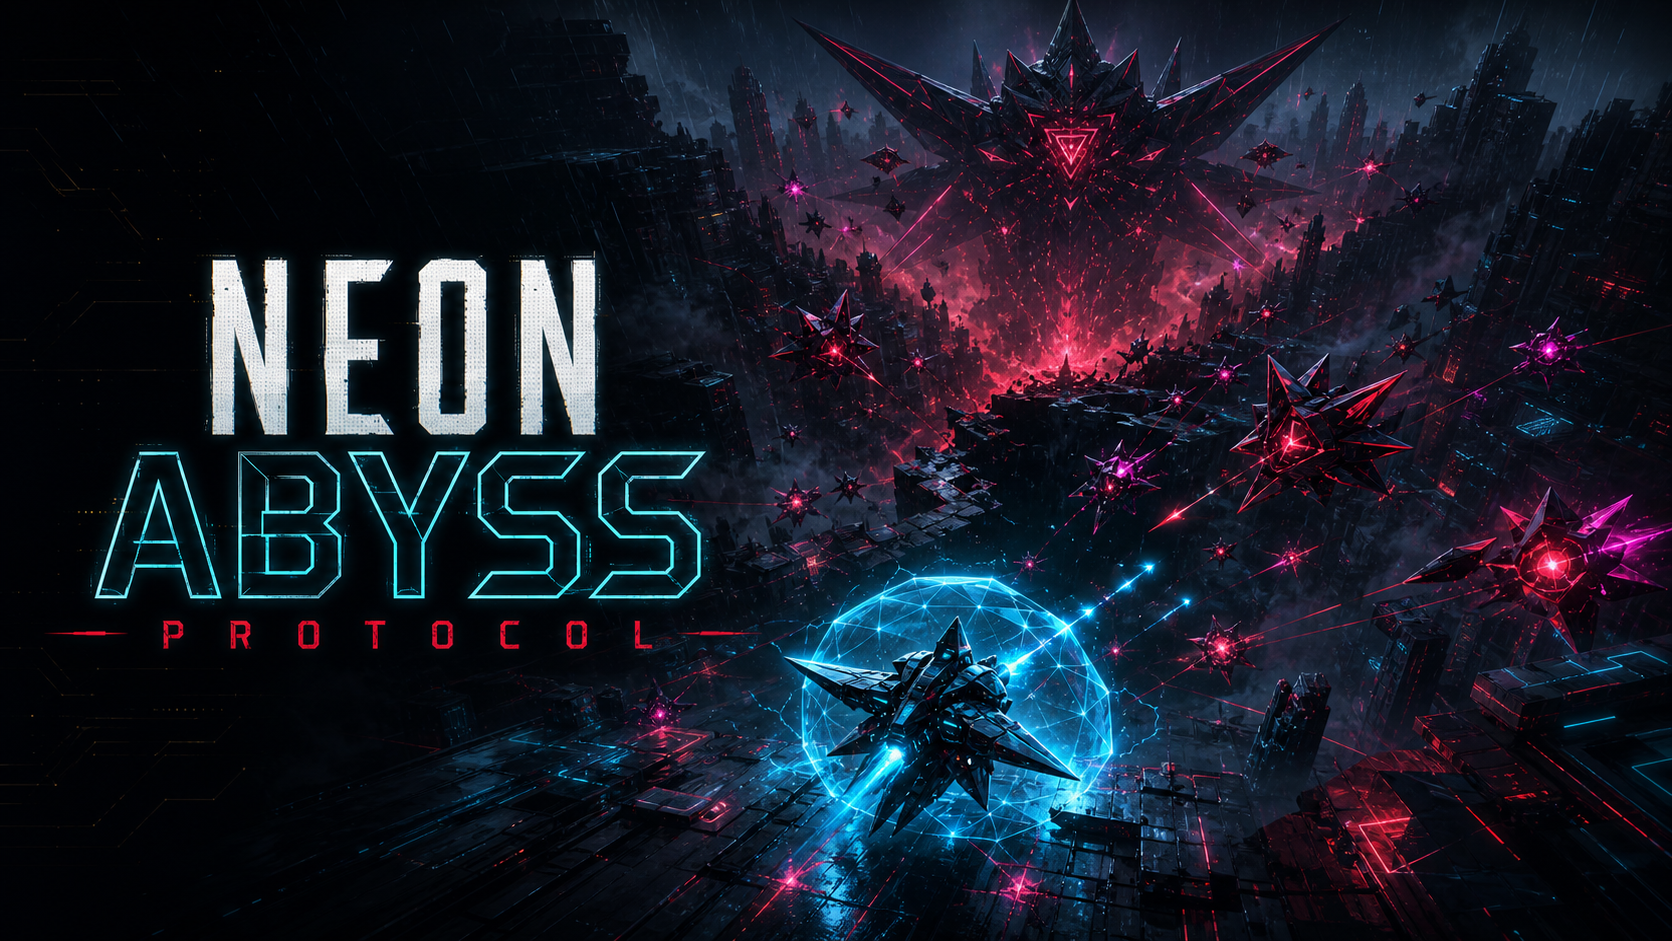
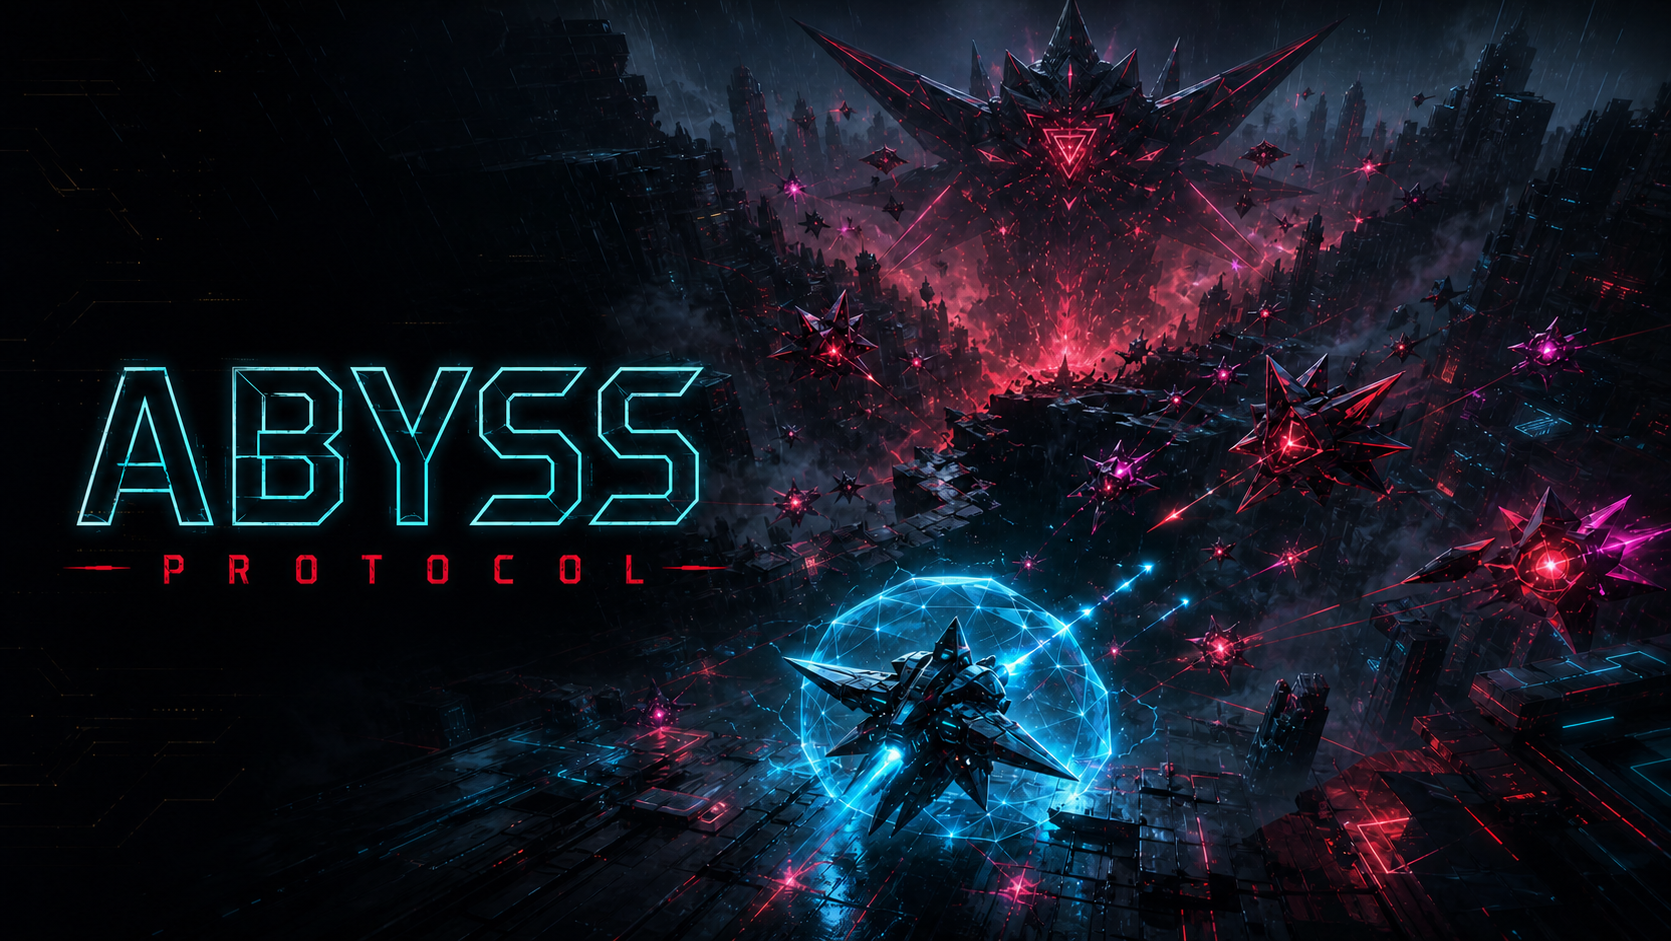
Expand Abyss Protocol progression and bosses

diff --git a/index.html b/index.html
@@ -4,13 +4,13 @@
     <meta charset="UTF-8" />
     <meta name="viewport" content="width=device-width, initial-scale=1.0" />
     <meta name="theme-color" content="#02070c" />
-    <meta name="description" content="Neon Abyss Protocol — неоновый survival-roguelite с боссами, мутациями и бесконечными волнами." />
-    <meta property="og:title" content="Neon Abyss Protocol" />
+    <meta name="description" content="Abyss Protocol — survival-roguelite о рейдерах, заражённых, артефактах и супербоссах." />
+    <meta property="og:title" content="Abyss Protocol" />
     <meta property="og:description" content="Войдите в разлом. Переживите бесконечные волны. Станьте оружием." />
     <meta property="og:image" content="./og.png" />
-    <title>Neon Abyss Protocol</title>
-    <script type="module" crossorigin src="/neon-abyss-protocol/assets/index-DOO0arOb.js"></script>
-    <link rel="stylesheet" crossorigin href="/neon-abyss-protocol/assets/index-BguIP_6b.css">
+    <title>Abyss Protocol</title>
+    <script type="module" crossorigin src="/neon-abyss-protocol/assets/index-IX3giJ4c.js"></script>
+    <link rel="stylesheet" crossorigin href="/neon-abyss-protocol/assets/index-Kt02fAsv.css">
   </head>
   <body>
     <div id="root"></div>

diff --git a/assets/index-Kt02fAsv.css b/assets/index-Kt02fAsv.css
@@ -1,0 +1,2 @@
+/*! tailwindcss v4.2.1 | MIT License | https://tailwindcss.com */
+@layer theme{:root,:host{--font-sans:ui-sans-serif, system-ui, sans-serif, "Apple Color Emoji", "Segoe UI Emoji", "Segoe UI Symbol", "Noto Color Emoji";--font-mono:ui-monospace, SFMono-Regular, Menlo, Monaco, Consolas, "Liberation Mono", "Courier New", monospace;--spacing:.25rem;--default-font-family:var(--font-sans);--default-mono-font-family:var(--font-mono)}}@layer base{*,:after,:before,::backdrop{box-sizing:border-box;border:0 solid;margin:0;padding:0}::file-selector-button{box-sizing:border-box;border:0 solid;margin:0;padding:0}html,:host{-webkit-text-size-adjust:100%;tab-size:4;line-height:1.5;font-family:var(--default-font-family,ui-sans-serif, system-ui, sans-serif, "Apple Color Emoji", "Segoe UI Emoji", "Segoe UI Symbol", "Noto Color Emoji");font-feature-settings:var(--default-font-feature-settings,normal);font-variation-settings:var(--default-font-variation-settings,normal);-webkit-tap-highlight-color:transparent}hr{height:0;color:inherit;border-top-width:1px}abbr:where([title]){-webkit-text-decoration:underline dotted;text-decoration:underline dotted}h1,h2,h3,h4,h5,h6{font-size:inherit;font-weight:inherit}a{color:inherit;-webkit-text-decoration:inherit;-webkit-text-decoration:inherit;-webkit-text-decoration:inherit;-webkit-text-decoration:inherit;text-decoration:inherit}b,strong{font-weight:bolder}code,kbd,samp,pre{font-family:var(--default-mono-font-family,ui-monospace, SFMono-Regular, Menlo, Monaco, Consolas, "Liberation Mono", "Courier New", monospace);font-feature-settings:var(--default-mono-font-feature-settings,normal);font-variation-settings:var(--default-mono-font-variation-settings,normal);font-size:1em}small{font-size:80%}sub,sup{vertical-align:baseline;font-size:75%;line-height:0;position:relative}sub{bottom:-.25em}sup{top:-.5em}table{text-indent:0;border-color:inherit;border-collapse:collapse}:-moz-focusring{outline:auto}progress{vertical-align:baseline}summary{display:list-item}ol,ul,menu{list-style:none}img,svg,video,canvas,audio,iframe,embed,object{vertical-align:middle;display:block}img,video{max-width:100%;height:auto}button,input,select,optgroup,textarea{font:inherit;font-feature-settings:inherit;font-variation-settings:inherit;letter-spacing:inherit;color:inherit;opacity:1;background-color:#0000;border-radius:0}::file-selector-button{font:inherit;font-feature-settings:inherit;font-variation-settings:inherit;letter-spacing:inherit;color:inherit;opacity:1;background-color:#0000;border-radius:0}:where(select:is([multiple],[size])) optgroup{font-weight:bolder}:where(select:is([multiple],[size])) optgroup option{padding-inline-start:20px}::file-selector-button{margin-inline-end:4px}::placeholder{opacity:1}@supports (not ((-webkit-appearance:-apple-pay-button))) or (contain-intrinsic-size:1px){::placeholder{color:currentColor}@supports (color:color-mix(in lab, red, red)){::placeholder{color:color-mix(in oklab, currentcolor 50%, transparent)}}}textarea{resize:vertical}::-webkit-search-decoration{-webkit-appearance:none}::-webkit-date-and-time-value{min-height:1lh;text-align:inherit}::-webkit-datetime-edit{display:inline-flex}::-webkit-datetime-edit-fields-wrapper{padding:0}::-webkit-datetime-edit{padding-block:0}::-webkit-datetime-edit-year-field{padding-block:0}::-webkit-datetime-edit-month-field{padding-block:0}::-webkit-datetime-edit-day-field{padding-block:0}::-webkit-datetime-edit-hour-field{padding-block:0}::-webkit-datetime-edit-minute-field{padding-block:0}::-webkit-datetime-edit-second-field{padding-block:0}::-webkit-datetime-edit-millisecond-field{padding-block:0}::-webkit-datetime-edit-meridiem-field{padding-block:0}::-webkit-calendar-picker-indicator{line-height:1}:-moz-ui-invalid{box-shadow:none}button,input:where([type=button],[type=reset],[type=submit]){appearance:button}::file-selector-button{appearance:button}::-webkit-inner-spin-button{height:auto}::-webkit-outer-spin-button{height:auto}[hidden]:where(:not([hidden=until-found])){display:none!important}}@layer components;@layer utilities{.relative{position:relative}.start{inset-inline-start:var(--spacing)}.grid{display:grid}.table{display:table}.resize{resize:both}}:root{--ink:#02070c;--panel:#040d12c7;--panel-strong:#040c11f0;--line:#86edf52e;--cyan:#8efcff;--cyan-hot:#36e9f6;--red:#ff4369;--magenta:#fa5bff;--gold:#ffd66b;--text:#e8fdff;--muted:#6d8f98}*{box-sizing:border-box}html,body{width:100%;height:100%;color:var(--text);background:#02070c;margin:0;overflow:hidden}body{font-family:Arial Narrow,Roboto Condensed,Segoe UI,sans-serif}button,input{font:inherit}button{color:inherit}.game-shell{cursor:default;isolation:isolate;background:#02070c;width:100vw;height:100dvh;min-height:560px;position:relative;overflow:hidden}.game-canvas{touch-action:none;cursor:none;width:100%;height:100%;position:absolute;inset:0}.scanlines{pointer-events:none;z-index:2;opacity:.15;mix-blend-mode:overlay;background:repeating-linear-gradient(#0000 0 3px,#8efcff29 4px);position:absolute;inset:0}.scanlines:after{content:"";background:linear-gradient(90deg,#ff005006,#0000 45%,#00f0ff06);animation:8s linear infinite signal;position:absolute;inset:0}@keyframes signal{0%,91%,to{transform:translate(0)}92%{transform:translate(-6px)}94%{transform:translate(8px)}96%{transform:translate(-2px)}}.hud-panel{border:1px solid var(--line);-webkit-backdrop-filter:blur(10px);backdrop-filter:blur(10px);background:linear-gradient(135deg,#0b1b22db,#02080cad);position:relative;box-shadow:inset 0 0 30px #0d464e1f,0 10px 35px #0003}.hud-panel:before,.hud-panel:after{content:"";pointer-events:none;width:10px;height:10px;position:absolute}.hud-panel:before{border-top:2px solid #8efcffa6;border-left:2px solid #8efcffa6;top:-1px;left:-1px}.hud-panel:after{border-bottom:2px solid #8efcff59;border-right:2px solid #8efcff59;bottom:-1px;right:-1px}.topbar{z-index:5;grid-template-columns:1fr auto 1fr;align-items:center;height:64px;padding:0 12px 0 16px;display:grid;position:absolute;top:18px;left:18px;right:18px}.topbar:before{width:56px}.brand{align-items:center;gap:12px;display:flex}.brand-mark{width:34px;height:34px;color:var(--cyan);letter-spacing:-2px;border:1px solid #8efcff8c;place-items:center;font-size:15px;font-weight:900;display:grid;transform:skew(-7deg);box-shadow:inset 0 0 13px #8efcff2e}.brand b{letter-spacing:.14em;font-size:14px;font-weight:900;line-height:1;display:block}.brand small{letter-spacing:.16em;color:var(--muted);margin-top:5px;font:8px ui-monospace,monospace;display:block}.sector{text-align:center;min-width:260px}.sector small{color:var(--muted);letter-spacing:.2em;font-size:8px;display:block}.sector strong{color:var(--cyan);letter-spacing:.15em;text-shadow:0 0 18px #8efcff73;margin-top:3px;font-size:13px;display:inline-block}.sector span{color:#78949b;letter-spacing:.12em;margin-top:2px;font:8px ui-monospace,monospace;display:block}.top-actions{justify-content:flex-end;gap:6px;display:flex}.icon-btn{color:#9db9be;cursor:pointer;background:#01080c99;border:1px solid #8efcff26;width:36px;height:36px;font-weight:700;transition:all .2s}.icon-btn:hover{color:var(--cyan);border-color:var(--cyan);box-shadow:inset 0 0 16px #8efcff1f}.left-hud{z-index:4;pointer-events:none;gap:10px;width:274px;display:grid;position:absolute;top:98px;left:18px}.vitals,.objective-card,.event-log,.score-card{padding:13px 14px}.pilot-row{border-bottom:1px solid #8efcff17;align-items:center;gap:11px;padding-bottom:12px;display:flex}.pilot-avatar{width:44px;height:44px;color:var(--cyan);clip-path:polygon(0 0,84% 0,100% 20%,100% 100%,16% 100%,0 80%);background:linear-gradient(135deg,#8efcff24,#0000);border:1px solid #8efcff47;place-items:center;font-weight:900;display:grid}.pilot-row small,.pilot-row strong,.pilot-row span{display:block}.pilot-row small{color:var(--muted);letter-spacing:.18em;font-size:7px}.pilot-row strong{letter-spacing:.15em;margin-top:3px;font-size:13px}.pilot-row span{color:#66838b;letter-spacing:.14em;margin-top:3px;font-size:7px}.stat{margin-top:11px}.stat>div:first-child{letter-spacing:.12em;color:#94b4bb;justify-content:space-between;font:8px ui-monospace,monospace;display:flex}.stat b{color:#d7eff2;font-weight:500}.bar{background:#ffffff12;height:5px;margin-top:5px;overflow:hidden}.bar i{height:100%;transition:width .2s linear;display:block;position:relative;box-shadow:0 0 12px}.bar i:after{content:"";background:#fff;width:2px;height:9px;position:absolute;top:-2px;right:0;box-shadow:0 0 8px #fff}.xp-row{color:#6f929a;letter-spacing:.1em;grid-template-columns:1fr auto;gap:5px;margin-top:11px;font:8px ui-monospace,monospace;display:grid}.xp-row b{font-weight:400}.xp-line{background:#ffffff14;grid-column:1/-1;height:2px}.xp-line i{background:var(--magenta);width:0;height:100%;box-shadow:0 0 10px var(--magenta);transition:width .2s;display:block}.section-kicker{color:#77969d;letter-spacing:.16em;justify-content:space-between;align-items:center;font-size:8px;display:flex}.section-kicker em{color:#061114;background:var(--cyan);padding:2px 4px;font-size:7px;font-style:normal;box-shadow:0 0 8px #8efcff66}.objective-card strong{color:#eefeff;letter-spacing:.12em;margin-top:11px;font-size:12px;display:block}.objective-card p{color:#6e8c94;letter-spacing:.06em;margin:5px 0 12px;font-size:9px}.objective-progress{background:#ffffff12;height:3px}.objective-progress i{background:var(--cyan);height:100%;box-shadow:0 0 9px var(--cyan);transition:width .25s;display:block}.objective-card>small{text-align:right;color:#5f7c83;margin-top:5px;font:7px ui-monospace,monospace;display:block}.event-log{padding-bottom:10px}.event-log p{color:#5e7c83;gap:7px;margin:8px 0 0;font:8px/1.3 ui-monospace,monospace;display:flex}.event-log p:first-of-type{color:#a4cbd1}.event-log p span{color:var(--cyan)}.right-hud{z-index:4;pointer-events:none;justify-items:stretch;gap:14px;width:224px;display:grid;position:absolute;top:98px;right:18px}.score-card{text-align:right}.score-card small{color:var(--muted);letter-spacing:.16em;font-size:8px}.score-card>strong{letter-spacing:.04em;color:#fff;text-shadow:0 0 20px #8efcff40;margin-top:3px;font:700 30px/1 ui-monospace,monospace;display:block}.score-card div{color:#6d8d94;letter-spacing:.1em;border-top:1px solid #8efcff17;justify-content:space-between;margin-top:9px;padding-top:7px;font-size:8px;display:flex}.score-card b{color:var(--gold);font-weight:500}.combo{border-left:2px solid var(--magenta);text-align:right;background:linear-gradient(90deg,#fa5bff26,#0000);justify-self:end;min-width:130px;padding:7px 10px 7px 13px;animation:.3s ease-out comboPulse;transform:skew(-6deg)}@keyframes comboPulse{0%{filter:brightness(2);transform:skew(-6deg)scale(1.18)}}.combo span,.combo small{color:#a37aa7;letter-spacing:.2em;font-size:7px;display:block}.combo strong{color:#ff85ff;text-shadow:0 0 18px #fa5bff99;font-size:28px;line-height:.9;display:block}.boss-hud{z-index:5;background:linear-gradient(90deg,#0000,#1c030cd9 12% 88%,#0000);width:min(510px,46vw);padding:9px 14px;position:absolute;top:94px;left:50%;transform:translate(-50%)}.boss-hud>div:first-child{color:#ff8fac;letter-spacing:.16em;justify-content:space-between;font-size:8px;display:flex}.boss-hud b{color:#cb7e8d;font:8px ui-monospace,monospace}.boss-hud>div:last-child{background:#ffffff12;height:4px;margin-top:6px}.boss-hud i{background:linear-gradient(90deg,#ff2c72,#ff8b52);height:100%;transition:width .18s;display:block;box-shadow:0 0 16px #ff2c72}.bottom-hud{z-index:5;align-items:flex-end;gap:10px;display:flex;position:absolute;bottom:18px;left:50%;transform:translate(-50%)}.weapon-rack{gap:5px;padding:6px;display:flex}.weapon-rack button{color:#617c83;cursor:pointer;text-align:left;background:#02080cad;border:1px solid #8efcff17;align-items:center;gap:9px;width:118px;height:46px;padding:0 8px;transition:all .2s;display:flex;position:relative;overflow:hidden}.weapon-rack button:hover,.weapon-rack button.active{color:#fff;background:#0f252bc7;border-color:#8efcff57}.weapon-rack button.active{box-shadow:inset 0 0 18px #8efcff14}.weapon-rack kbd{border:1px solid;place-items:center;width:18px;height:18px;font:8px ui-monospace,monospace;display:grid}.weapon-rack span b,.weapon-rack span small{display:block}.weapon-rack span b{letter-spacing:.12em;font-size:9px}.weapon-rack span small{color:#536c72;letter-spacing:.12em;margin-top:4px;font-size:7px}.weapon-rack button>i{opacity:.25;height:2px;position:absolute;bottom:0;left:0;right:0}.weapon-rack button.active>i{opacity:1;box-shadow:0 0 10px}.abilities{gap:5px;padding:6px;display:flex}.abilities button{cursor:pointer;background:#030a0e;border:1px solid #8efcff1f;width:56px;height:56px;padding:0;position:relative;overflow:hidden}.abilities button>i{content:"";pointer-events:none;background:#3ee7f31f;transition:height .1s linear;position:absolute;bottom:0;left:0;right:0}.abilities button>span{z-index:1;color:#54747b;font-size:19px;display:block;position:relative}.abilities button>small{z-index:1;color:#537077;letter-spacing:.12em;font-size:6px;display:block;position:relative}.abilities button kbd{z-index:2;color:#57777e;font:6px ui-monospace,monospace;position:absolute;top:2px;left:4px}.abilities button.ready{border-color:#8efcff66}.abilities button.ready>span{color:var(--cyan);text-shadow:0 0 12px var(--cyan)}.abilities button.ready:hover{background:#8efcff1a}.abilities .ultimate.ready{border-color:#fa5bffbf;animation:1.3s ease-in-out infinite ultimate}.abilities .ultimate.ready>span{color:var(--magenta);text-shadow:0 0 14px var(--magenta)}.abilities .ultimate>i{background:#fa5bff29}@keyframes ultimate{50%{box-shadow:inset 0 0 20px #fa5bff47,0 0 13px #fa5bff2e}}.help-card{z-index:12;background:var(--panel-strong);width:300px;padding:16px;position:absolute;top:88px;right:18px}.help-card>button{color:#78949b;cursor:pointer;background:0 0;border:0;font-size:20px;position:absolute;top:4px;right:7px}.help-card>small{color:var(--cyan);letter-spacing:.2em;margin-bottom:13px;font-size:8px;display:block}.help-card>div{color:#76939a;grid-template-columns:72px 1fr;align-items:center;gap:8px 12px;font-size:9px;display:grid}.help-card kbd{color:#c7edf1;text-align:center;border:1px solid #8efcff40;padding:4px 6px;font:8px ui-monospace,monospace}.modal{z-index:10;text-align:center;width:min(920px,100vw - 40px);position:absolute;top:50%;left:50%;transform:translate(-50%,-50%)}.modal:before{content:"";z-index:-2;-webkit-backdrop-filter:blur(4px);backdrop-filter:blur(4px);background:radial-gradient(circle at 50% 43%,#08232a80,#010508d1 44%,#010407f2);position:fixed;inset:-100vh -100vw}.modal:after{content:"";z-index:-1;border:1px solid #8efcff0f;border-radius:50%;width:540px;height:540px;position:absolute;top:50%;left:50%;transform:translate(-50%,-50%);box-shadow:0 0 120px #29e2f014,inset 0 0 120px #29e2f008}.eyebrow{color:#718e95;letter-spacing:.32em;justify-content:center;align-items:center;gap:14px;font-size:9px;display:flex}.eyebrow span{background:linear-gradient(90deg, transparent, var(--cyan));width:36px;height:1px}.eyebrow span:last-child{transform:scaleX(-1)}.briefing-modal h1{letter-spacing:-.07em;text-shadow:0 0 50px #8efcff17;margin:22px 0 0;font-size:clamp(70px,11vw,138px);font-weight:950;line-height:.68;transform:scaleX(.84)}.briefing-modal h1 em{color:#0000;-webkit-text-stroke:1px var(--cyan);text-shadow:0 0 25px #8efcff40;font-style:normal}.protocol{color:var(--red);letter-spacing:1.25em;margin-top:20px;padding-left:1.25em;font-size:13px;font-weight:900}.briefing-modal>p,.compact-modal>p,.upgrade-modal>p{color:#6d898f;letter-spacing:.06em;margin:22px auto;font-size:12px;line-height:1.7}.primary-btn{color:#eaffff;cursor:pointer;letter-spacing:.2em;clip-path:polygon(0 0,calc(100% - 10px) 0,100% 10px,100% 100%,10px 100%,0 calc(100% - 10px));background:#09262bbf;border:1px solid #8efcffcc;justify-content:space-between;align-items:center;min-width:280px;height:54px;margin:26px auto 0;padding:0 8px 0 24px;font-size:10px;font-weight:800;transition:all .25s;display:flex;box-shadow:inset 0 0 25px #8efcff14,0 0 25px #8efcff14}.primary-btn i{background:var(--cyan);color:#041014;place-items:center;width:38px;height:38px;font-size:18px;font-style:normal;display:grid}.primary-btn:hover{background:#144a51cc;transform:translateY(-2px);box-shadow:inset 0 0 30px #8efcff33,0 0 30px #8efcff33}.feature-strip{color:#66838a;letter-spacing:.12em;border-top:1px solid #8efcff1a;grid-template-columns:repeat(4,1fr);gap:10px;width:min(670px,90vw);margin:34px auto 0;padding-top:15px;font-size:8px;display:grid}.feature-strip b{color:var(--cyan);margin-bottom:5px;font-size:12px;display:block}.boot-hint{color:#425a60;letter-spacing:.24em;margin-top:19px;font:8px ui-monospace,monospace;display:block}.compact-modal{width:min(560px,100vw - 40px)}.compact-modal h2,.upgrade-modal h2{letter-spacing:-.04em;margin:18px 0 0;font-size:clamp(48px,8vw,86px);line-height:.86}.compact-modal h2 em,.upgrade-modal h2 em{color:#0000;-webkit-text-stroke:1px var(--cyan);font-style:normal}.ghost-btn{color:#68858c;letter-spacing:.16em;cursor:pointer;background:0 0;border:0;margin:12px auto;padding:8px 18px;font-size:9px;display:block}.ghost-btn:hover{color:var(--cyan)}.death-modal .eyebrow{color:#ff7c95}.death-modal h2 em{-webkit-text-stroke-color:var(--red)}.result-grid{border-top:1px solid #ffffff17;border-bottom:1px solid #ffffff17;grid-template-columns:repeat(3,1fr);width:min(430px,90vw);margin:28px auto 0;display:grid}.result-grid span{border-right:1px solid #ffffff17;padding:15px 10px}.result-grid span:last-child{border:0}.result-grid small,.result-grid b{display:block}.result-grid small{color:#607b82;letter-spacing:.2em;font-size:7px}.result-grid b{margin-top:6px;font:22px ui-monospace,monospace}.record-line{color:#587078;letter-spacing:.2em;margin-top:18px;font-size:8px;display:block}.upgrade-modal{width:min(1000px,100vw - 36px)}.upgrade-modal h2{font-size:clamp(42px,6vw,72px)}.upgrade-grid{perspective:1000px;grid-template-columns:repeat(3,1fr);gap:14px;margin-top:25px;display:grid}.upgrade-card{text-align:left;cursor:pointer;clip-path:polygon(0 0,calc(100% - 18px) 0,100% 18px,100% 100%,0 100%);background:linear-gradient(155deg,#0b1d23f5,#03090df7);border:1px solid #8efcff2e;min-height:290px;padding:35px 22px 20px;transition:all .28s;position:relative;overflow:hidden}.upgrade-card:after{content:"";background:linear-gradient(90deg,#0000,#8efcff0d,#0000);width:150px;height:220px;position:absolute;top:-70px;left:50%;transform:translate(-50%)rotate(35deg)}.upgrade-card:hover{border-color:var(--rarity,var(--cyan));box-shadow:0 16px 40px #0006, inset 0 0 35px var(--rarity,var(--cyan));transform:translateY(-9px)rotateX(2deg)}@supports (color:color-mix(in lab, red, red)){.upgrade-card:hover{box-shadow:0 16px 40px #0006, inset 0 0 35px color-mix(in srgb, var(--rarity,var(--cyan)) 13%, transparent)}}.upgrade-card{border-color:var(--rarity,var(--cyan))}@supports (color:color-mix(in lab, red, red)){.upgrade-card{border-color:color-mix(in srgb, var(--rarity,var(--cyan)) 48%, transparent)}}.upgrade-card kbd{color:#4f6d73;font:8px ui-monospace,monospace;position:absolute;top:10px;left:12px}.upgrade-icon{border:1px solid var(--rarity,var(--cyan));width:64px;height:64px;color:var(--rarity,var(--cyan));box-shadow:inset 0 0 25px var(--rarity,var(--cyan)), 0 0 25px var(--rarity,var(--cyan));place-items:center;margin:0 auto 20px;font-size:32px;display:grid}@supports (color:color-mix(in lab, red, red)){.upgrade-icon{box-shadow:inset 0 0 25px color-mix(in srgb, var(--rarity,var(--cyan)) 12%, transparent), 0 0 25px color-mix(in srgb, var(--rarity,var(--cyan)) 9%, transparent)}}.upgrade-icon{transform:rotate(45deg)}.upgrade-icon:first-letter{transform:rotate(-45deg)}.upgrade-card>small{color:#5d858b;text-transform:uppercase;letter-spacing:.2em;font-size:7px;display:block}.upgrade-card>strong{letter-spacing:.12em;margin-top:7px;font-size:14px;display:block}.upgrade-card>p{color:#6d8b92;min-height:38px;font-size:10px;line-height:1.5}.upgrade-card>i{color:#7fadb2;letter-spacing:.12em;font-size:8px;font-style:normal;position:absolute;bottom:17px;left:22px}.menu-actions{width:min(360px,90vw);margin:0 auto}.menu-actions .primary-btn{width:100%;margin-top:24px}.menu-actions .ghost-btn{background:#030c108c;border:1px solid #8efcff1a;width:100%;margin:5px auto}.main-menu>p{max-width:650px}.cheat-button{color:#ff819b;letter-spacing:.2em;cursor:pointer;background:#1f050dc7;border:1px solid #ff547359;padding:10px 15px;font-size:8px;position:fixed;bottom:20px;right:22px}.cheat-panel{text-align:left;background:#0a0509f5;border:1px solid #ff547359;gap:11px;width:245px;padding:16px;display:grid;position:fixed;bottom:62px;right:22px;box-shadow:0 20px 50px #00000080}.cheat-panel strong{color:#ff819b;letter-spacing:.14em;font-size:9px}.cheat-panel label{color:#a99198;align-items:center;gap:9px;font-size:10px;display:flex}.cheat-panel input{accent-color:#ff4569}.settings-modal{border:1px solid var(--line);background:#030c11eb;padding:30px}.settings-modal label{text-align:left;width:min(430px,90%);margin:26px auto;display:block}.settings-modal label span{color:#7b9ba2;letter-spacing:.16em;justify-content:space-between;margin-bottom:9px;font-size:9px;display:flex}.settings-modal input[type=range]{width:100%;accent-color:var(--cyan)}.howto-modal{border:1px solid var(--line);background:#030c11f0;padding:28px}.howto-grid{grid-template-columns:repeat(3,1fr);gap:8px;margin:24px 0;display:grid}.howto-grid span{color:#75949b;border:1px solid #8efcff1a;padding:10px;font-size:9px}.howto-grid kbd{color:var(--cyan);margin-right:6px}.difficulty-modal{width:min(980px,100vw - 34px)}.difficulty-modal h2,.shop-modal h2,.inventory-modal h2,.chest-modal h2{letter-spacing:-.04em;margin:16px 0;font-size:clamp(36px,6vw,68px)}.difficulty-grid{grid-template-columns:repeat(3,1fr);gap:15px;margin-top:22px;display:grid}.difficulty-card{text-align:left;cursor:pointer;background:linear-gradient(155deg,#0a1c22f5,#03090dfa);border:1px solid #8efcff2e;flex-direction:column;min-height:260px;padding:30px 22px;transition:all .25s;display:flex}.difficulty-card:hover{border-color:var(--cyan);transform:translateY(-7px);box-shadow:0 20px 50px #00000073}.difficulty-card.easy{border-color:#5aff995c}.difficulty-card.hard{border-color:#ff43696b}.difficulty-card small{color:#6f939a;letter-spacing:.25em;font-size:8px}.difficulty-card strong{letter-spacing:.08em;margin-top:12px;font-size:20px}.difficulty-card p{color:#708c93;font-size:10px;line-height:1.6}.difficulty-card i{color:var(--cyan);letter-spacing:.14em;margin-top:auto;font-size:8px;font-style:normal}.weapon-rack button.locked{opacity:.36;filter:grayscale();cursor:not-allowed}.ammo-counter{text-align:center;border-left:1px solid #8efcff1f;flex-direction:column;justify-content:center;min-width:104px;padding:7px 10px;display:flex}.ammo-counter small,.ammo-counter span{color:#5c7a81;letter-spacing:.12em;font-size:6px}.ammo-counter strong{color:#fff;margin:3px 0;font:17px ui-monospace,monospace}.shop-modal,.inventory-modal,.chest-modal{background:radial-gradient(circle at 50% 0,#612d1552,#0000 38%),#07090bf7;border:1px solid #ffd66b47;width:min(1120px,100vw - 32px);max-height:calc(100dvh - 30px);padding:24px;overflow-y:auto;box-shadow:inset 0 0 90px #6b38141f,0 30px 90px #000000b3}.shop-modal:after,.inventory-modal:after,.chest-modal:after{display:none}.merchant-title{text-align:left;border-bottom:1px solid #ffd66b26;grid-template-columns:auto 1fr auto;align-items:center;gap:18px;padding-bottom:15px;display:grid}.merchant-title h2{margin:3px 0;font-size:30px}.merchant-title p{color:#887d69;margin:0;font-size:9px}.merchant-title>b{color:var(--gold);font:20px ui-monospace,monospace}.merchant-face{color:#ffd66b;border:1px solid #ffd66b;place-items:center;width:62px;height:62px;font-size:32px;display:grid}.weapon-offer{text-align:left;cursor:pointer;background:linear-gradient(90deg,#64330d59,#0a0e10cc);border:1px solid #ffd66b6b;grid-template-columns:1fr 2fr 2fr 1fr;align-items:center;width:100%;margin:15px 0;padding:14px 18px;display:grid}.weapon-offer span,.weapon-offer small{color:#8e7e61;letter-spacing:.14em;font-size:8px}.weapon-offer b{color:var(--gold);text-align:right}.shop-grid{grid-template-columns:repeat(4,1fr);gap:11px;display:grid}.shop-card{text-align:left;border:1px solid var(--rarity,var(--cyan));flex-direction:column;min-height:250px;padding:20px;display:flex}@supports (color:color-mix(in lab, red, red)){.shop-card{border:1px solid color-mix(in srgb, var(--rarity,var(--cyan)) 52%, transparent)}}.shop-card{background:linear-gradient(160deg, var(--rarity,var(--cyan)), #04080b)}@supports (color:color-mix(in lab, red, red)){.shop-card{background:linear-gradient(160deg, color-mix(in srgb, var(--rarity,var(--cyan)) 7%, #081015), #04080b)}}.shop-card{cursor:pointer;transition:all .22s}.shop-card:hover:not(:disabled){box-shadow:0 12px 35px var(--rarity,var(--cyan));transform:translateY(-5px)}@supports (color:color-mix(in lab, red, red)){.shop-card:hover:not(:disabled){box-shadow:0 12px 35px color-mix(in srgb, var(--rarity,var(--cyan)) 16%, transparent)}}.shop-card:disabled{opacity:.38;cursor:not-allowed}.shop-card>span{color:var(--rarity,var(--cyan));font-size:38px}.shop-card small{color:var(--rarity,var(--cyan));letter-spacing:.16em;margin:12px 0 7px;font-size:7px}.shop-card strong{letter-spacing:.08em;font-size:13px}.shop-card p{color:#758990;font-size:9px;line-height:1.5}.shop-card b{color:var(--rarity,var(--gold));margin-top:auto}.sell-strip{text-align:left;border:1px dashed #ffd66b33;margin-top:15px;padding:12px}.sell-strip>small{color:#8b7758;letter-spacing:.16em;margin-bottom:8px;font-size:7px;display:block}.sell-strip button{color:#9e9a8e;cursor:pointer;background:#ffffff08;border:1px solid #ffffff14;margin:3px;padding:7px 9px;font-size:8px}.shop-exit{margin-top:15px}.inventory-modal{background:linear-gradient(120deg,#301d12fa,#0e0a09fa);border-color:#bf824a73}.backpack{background:#17100d;border:10px solid #3a2419;border-radius:36px 36px 70px 70px;grid-template-columns:repeat(5,1fr);gap:10px;padding:20px;display:grid;box-shadow:inset 0 0 50px #050302}.artifact-slot{color:#5e473a;border:1px dashed #604535;flex-direction:column;justify-content:center;min-height:150px;padding:12px;display:flex}.artifact-slot.filled{border-style:solid;border-color:var(--rarity);background:var(--rarity)}@supports (color:color-mix(in lab, red, red)){.artifact-slot.filled{background:color-mix(in srgb, var(--rarity) 7%, #160f0c)}}.artifact-slot.filled{text-align:left}.artifact-slot>span{color:var(--rarity);font-size:28px}.artifact-slot small{color:var(--rarity);letter-spacing:.12em;font-size:6px}.artifact-slot strong{margin-top:6px;font-size:10px}.artifact-slot p{color:#908076;font-size:8px;line-height:1.4}.artifact-slot em{font:8px ui-monospace,monospace}.victory-modal h2 em{-webkit-text-stroke-color:#ffd66b}.victory-modal .eyebrow{color:#ffd66b}.touch-controls{display:none}@media (width<=900px){.topbar{top:8px;left:8px;right:8px}.left-hud{width:230px;top:82px;left:8px}.event-log{display:none}.right-hud{width:180px;top:82px;right:8px}.score-card>strong{font-size:23px}.bottom-hud{bottom:8px}.weapon-rack button{width:82px}.weapon-rack span small{display:none}.abilities button{width:50px;height:50px}.feature-strip,.shop-grid{grid-template-columns:repeat(2,1fr)}.backpack{grid-template-columns:repeat(3,1fr)}.ammo-counter{display:none}.merchant-title{grid-template-columns:auto 1fr}.merchant-title>b{grid-column:2}}@media (pointer:coarse),(width<=680px){.game-shell{min-height:440px}.game-canvas{cursor:default}.brand small,.sector span,.left-hud,.combo,.weapon-rack,.help-card{display:none}.topbar{grid-template-columns:1fr auto 1fr;height:50px}.sector{min-width:150px}.sector strong{font-size:9px}.top-actions .icon-btn:first-child,.top-actions .icon-btn:nth-child(2){display:none}.right-hud{width:160px;top:67px}.score-card{padding:9px}.boss-hud{width:70vw;top:66px}.bottom-hud{bottom:10px;left:auto;right:10px;transform:none}.abilities{-webkit-backdrop-filter:none;backdrop-filter:none;background:0 0;border:0}.abilities:before,.abilities:after{display:none}.touch-controls{z-index:6;pointer-events:none;justify-content:space-between;align-items:flex-end;display:flex;position:absolute;bottom:14px;left:12px;right:12px}.dpad{grid-template-rows:repeat(3,44px);grid-template-columns:repeat(3,44px);width:132px;height:132px;display:grid;transform:rotate(45deg)}.dpad button{pointer-events:auto;color:#8efcffa6;touch-action:none;background:#0410158c;border:1px solid #8efcff38}.dpad button:first-child{grid-area:1/2}.dpad button:nth-child(2){grid-area:2/1}.dpad button:nth-child(3){grid-area:3/2}.dpad button:nth-child(4){grid-area:2/3}.dpad button{transform:rotate(-45deg)}.touch-actions{gap:8px;padding-right:185px;display:flex}.touch-actions button{pointer-events:auto;width:58px;height:58px;color:var(--cyan);letter-spacing:.1em;touch-action:none;background:#0412179e;border:1px solid #8efcff59;border-radius:50%;font-size:7px}.briefing-modal h1{font-size:clamp(54px,20vw,88px)}.protocol{letter-spacing:.7em;padding-left:.7em}.upgrade-grid{gap:7px}.upgrade-card{min-height:250px;padding:28px 12px 14px}.upgrade-card>strong{font-size:10px}.upgrade-card>p{font-size:8px}.upgrade-icon{width:48px;height:48px;font-size:23px}.modal{width:calc(100vw - 18px)}.difficulty-modal,.shop-modal,.inventory-modal,.chest-modal{max-height:calc(100dvh - 12px);padding:14px;overflow-y:auto}.difficulty-grid{grid-template-columns:1fr}.difficulty-card{min-height:155px;padding:18px}.shop-grid{grid-template-columns:1fr}.shop-card{min-height:190px}.backpack{border-width:6px;grid-template-columns:repeat(2,1fr);padding:10px}.artifact-slot{min-height:130px}.howto-grid{grid-template-columns:repeat(2,1fr)}.merchant-face{display:none}.merchant-title{grid-template-columns:1fr auto}.merchant-title>b{grid-column:auto}.merchant-title h2{font-size:22px}.weapon-offer{grid-template-columns:1fr 1fr;gap:5px}.cheat-button{bottom:10px;right:10px}.cheat-panel{bottom:51px;right:10px}}@media (height<=650px){.left-hud{width:240px}.event-log{display:none}.briefing-modal h1{font-size:82px}.briefing-modal>p{margin:13px auto}.briefing-modal .primary-btn{margin-top:16px}.feature-strip{margin-top:18px}.boot-hint{margin-top:10px}.upgrade-card{min-height:235px}.upgrade-icon{width:48px;height:48px;margin-bottom:12px}}@media (prefers-reduced-motion:reduce){*,:before,:after{transition-duration:.001ms!important;animation-duration:.001ms!important;animation-iteration-count:1!important}}